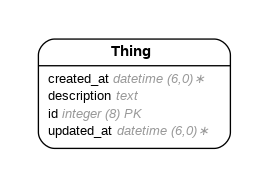
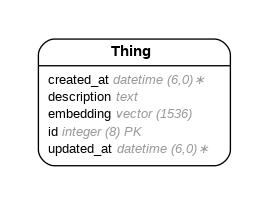
Added ruby-openai. Fetching and saving embedding.

Changed region(s): [[0.119, 0.1604, 0.8625, 0.8289]]

diff --git a/app/controllers/things_controller.rb b/app/controllers/things_controller.rb
@@ -21,6 +21,22 @@ class ThingsController < ApplicationController
     the_thing = Thing.new
     the_thing.description = params.fetch("query_description")
 
+    client = OpenAI::Client.new(
+      access_token: ENV.fetch("OPENAI_TOKEN"),
+    )
+
+    response = client.embeddings(
+      parameters: {
+        model: "text-embedding-3-small",
+        input: the_thing.description,
+      },
+    )
+
+    embedding = response.dig("data", 0, "embedding")
+    # => Vector representation of your embedding
+
+    the_thing.embedding = embedding
+
     if the_thing.valid?
       the_thing.save
       redirect_to("/things", { :notice => "Thing created successfully." })
@@ -37,7 +53,7 @@ class ThingsController < ApplicationController
 
     if the_thing.valid?
       the_thing.save
-      redirect_to("/things/#{the_thing.id}", { :notice => "Thing updated successfully."} )
+      redirect_to("/things/#{the_thing.id}", { :notice => "Thing updated successfully." })
     else
       redirect_to("/things/#{the_thing.id}", { :alert => the_thing.errors.full_messages.to_sentence })
     end
@@ -49,6 +65,6 @@ class ThingsController < ApplicationController
 
     the_thing.destroy
 
-    redirect_to("/things", { :notice => "Thing deleted successfully."} )
+    redirect_to("/things", { :notice => "Thing deleted successfully." })
   end
 end

diff --git a/db/schema.rb b/db/schema.rb
@@ -10,14 +10,16 @@
 #
 # It's strongly recommended that you check this file into your version control system.
 
-ActiveRecord::Schema[7.1].define(version: 2025_03_04_231812) do
+ActiveRecord::Schema[7.1].define(version: 2025_03_04_232402) do
   # These are extensions that must be enabled in order to support this database
   enable_extension "plpgsql"
+  enable_extension "vector"
 
   create_table "things", force: :cascade do |t|
     t.text "description"
     t.datetime "created_at", null: false
     t.datetime "updated_at", null: false
+    t.vector "embedding", limit: 1536
   end
 
 end

diff --git a/app/models/thing.rb b/app/models/thing.rb
@@ -4,6 +4,7 @@
 #
 #  id          :bigint           not null, primary key
 #  description :text
+#  embedding   :vector(1536)
 #  created_at  :datetime         not null
 #  updated_at  :datetime         not null
 #

diff --git a/db/migrate/20250304232402_add_embedding_to_things.rb b/db/migrate/20250304232402_add_embedding_to_things.rb
@@ -1,0 +1,5 @@
+class AddEmbeddingToThings < ActiveRecord::Migration[7.1]
+  def change
+    add_column :things, :embedding, :vector, limit: 1536
+  end
+end

diff --git a/db/migrate/20250304232210_install_neighbor_vector.rb b/db/migrate/20250304232210_install_neighbor_vector.rb
@@ -1,0 +1,5 @@
+class InstallNeighborVector < ActiveRecord::Migration[7.1]
+  def change
+    enable_extension "vector"
+  end
+end
